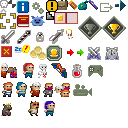
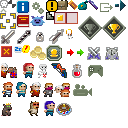
Added potion belt, should be really working now

Changed region(s): [[0.4375, 0.7812, 0.5625, 0.9062]]

diff --git a/app/src/main/java/com/demasu/testpixeldungeon/windows/WndBag.java b/app/src/main/java/com/demasu/testpixeldungeon/windows/WndBag.java
@@ -75,7 +75,8 @@ public class WndBag extends WndTabbed {
     protected static final int COLS_P = 4;
     protected static final int COLS_L = 6;
 
-    protected static final int SLOT_SIZE = 28;
+    protected static final int SLOT_WIDTH  = 28;
+    protected static final int SLOT_HEIGHT = 28;
     protected static final int SLOT_MARGIN = 1;
 
     protected static final int TAB_WIDTH = 25;
@@ -112,8 +113,8 @@ public class WndBag extends WndTabbed {
         nCols = PixelDungeon.landscape() ? COLS_L : COLS_P;
         nRows = ( Belongings.BACKPACK_SIZE + 4 + 1 ) / nCols + ( ( Belongings.BACKPACK_SIZE + 4 + 1 ) % nCols > 0 ? 1 : 0 );
 
-        int slotsWidth = SLOT_SIZE * nCols + SLOT_MARGIN * ( nCols - 1 );
-        int slotsHeight = SLOT_SIZE * nRows + SLOT_MARGIN * ( nRows - 1 );
+        int slotsWidth = SLOT_WIDTH * nCols + SLOT_MARGIN * ( nCols - 1 );
+        int slotsHeight = SLOT_HEIGHT * nRows + SLOT_MARGIN * ( nRows - 1 );
 
         BitmapText txtTitle = PixelScene.createText( title != null ? title : Utils.capitalize( bag.name() ), 9 );
         txtTitle.hardlight( TITLE_COLOR );
@@ -132,13 +133,15 @@ public class WndBag extends WndTabbed {
                 stuff.getItem( SeedPouch.class ),
                 stuff.getItem( ScrollHolder.class ),
                 stuff.getItem( WandHolster.class ),
-                stuff.getItem( Keyring.class ),
-                stuff.getItem( PotionBelt.class ) };
+                stuff.getItem( PotionBelt.class ),
+                stuff.getItem( Keyring.class ) };
 
+        int totalTabSpace = 125;
+        int tabWidth = totalTabSpace / bags.length + ((totalTabSpace % bags.length == 0) ? 0 : 1);
         for ( Bag b : bags ) {
             if ( b != null ) {
                 BagTab tab = new BagTab( b );
-                tab.setSize( TAB_WIDTH, tabHeight() );
+                tab.setSize( tabWidth, tabHeight() );
                 add( tab );
 
                 tab.select( b == bag );
@@ -204,8 +207,8 @@ public class WndBag extends WndTabbed {
 
     protected void placeItem ( final Item item ) {
 
-        int x = col * ( SLOT_SIZE + SLOT_MARGIN );
-        int y = TITLE_HEIGHT + row * ( SLOT_SIZE + SLOT_MARGIN );
+        int x = col * ( SLOT_WIDTH + SLOT_MARGIN );
+        int y = TITLE_HEIGHT + row * ( SLOT_HEIGHT + SLOT_MARGIN );
 
         add( new ItemButton( item ).setPos( x, y ) );
 
@@ -286,6 +289,8 @@ public class WndBag extends WndTabbed {
                 return Icons.get( Icons.SCROLL_HOLDER );
             } else if ( bag instanceof WandHolster ) {
                 return Icons.get( Icons.WAND_HOLSTER );
+            } else if ( bag instanceof PotionBelt ) {
+                return Icons.get( Icons.POTION_BELT );
             } else if ( bag instanceof Keyring ) {
                 return Icons.get( Icons.KEYRING );
             } else {
@@ -335,12 +340,13 @@ public class WndBag extends WndTabbed {
                 bg.visible = false;
             }
 
-            width = height = SLOT_SIZE;
+            width = SLOT_WIDTH;
+            height = SLOT_HEIGHT;
         }
 
         @Override
         protected void createChildren () {
-            bg = new ColorBlock( SLOT_SIZE, SLOT_SIZE, NORMAL );
+            bg = new ColorBlock( SLOT_WIDTH, SLOT_HEIGHT, NORMAL );
             add( bg );
 
             super.createChildren();

diff --git a/app/src/main/java/com/demasu/testpixeldungeon/windows/WndStorage.java b/app/src/main/java/com/demasu/testpixeldungeon/windows/WndStorage.java
@@ -19,6 +19,7 @@ package com.demasu.testpixeldungeon.windows;
 
 import android.graphics.RectF;
 
+import com.demasu.testpixeldungeon.items.bags.PotionBelt;
 import com.watabou.gltextures.TextureCache;
 import com.watabou.noosa.BitmapText;
 import com.watabou.noosa.ColorBlock;
@@ -70,22 +71,17 @@ public class WndStorage extends WndTabbed {
     protected static final int TAB_WIDTH = 25;
 
     protected static final int TITLE_HEIGHT = 12;
-
-    private Listener listener;
-    private WndStorage.Mode mode;
-    private String title;
-
-    private int nCols;
-    private int nRows;
-
+    private static Mode lastMode;
+    private static Storage lastBag;
+    public boolean noDegrade = !PixelDungeon.itemDeg();
     protected int count;
     protected int col;
     protected int row;
-
-    private static Mode lastMode;
-    private static Storage lastBag;
-
-    public boolean noDegrade = !PixelDungeon.itemDeg();
+    private Listener listener;
+    private WndStorage.Mode mode;
+    private String title;
+    private int nCols;
+    private int nRows;
 
     public WndStorage ( Storage bag, Listener listener, Mode mode, String title ) {
 
@@ -181,6 +177,30 @@ public class WndStorage extends WndTabbed {
         return 20;
     }
 
+    public interface Listener {
+        void onSelect ( Item item );
+    }
+
+    private static class Placeholder extends Item {
+        {
+            name = null;
+        }
+
+        public Placeholder ( int image ) {
+            this.image = image;
+        }
+
+        @Override
+        public boolean isIdentified () {
+            return true;
+        }
+
+        @Override
+        public boolean isEquipped ( Hero hero ) {
+            return true;
+        }
+    }
+
     private class BagTab extends Tab {
 
         private Image icon;
@@ -224,31 +244,13 @@ public class WndStorage extends WndTabbed {
                 return Icons.get( Icons.SCROLL_HOLDER );
             } else if ( bag instanceof WandHolster ) {
                 return Icons.get( Icons.WAND_HOLSTER );
+            } else if ( bag  instanceof PotionBelt ) {
+                return Icons.get( Icons.POTION_BELT );
             } else if ( bag instanceof Keyring ) {
                 return Icons.get( Icons.KEYRING );
             } else {
                 return Icons.get( Icons.BACKPACK );
             }
-        }
-    }
-
-    private static class Placeholder extends Item {
-        {
-            name = null;
-        }
-
-        public Placeholder ( int image ) {
-            this.image = image;
-        }
-
-        @Override
-        public boolean isIdentified () {
-            return true;
-        }
-
-        @Override
-        public boolean isEquipped ( Hero hero ) {
-            return true;
         }
     }
 
@@ -370,9 +372,5 @@ public class WndStorage extends WndTabbed {
             return false;
 
         }
-    }
-
-    public interface Listener {
-        void onSelect ( Item item );
     }
 }

diff --git a/app/src/main/java/com/demasu/testpixeldungeon/ui/Icons.java b/app/src/main/java/com/demasu/testpixeldungeon/ui/Icons.java
@@ -17,62 +17,59 @@
  */
 package com.demasu.testpixeldungeon.ui;
 
-import com.watabou.noosa.Image;
 import com.demasu.testpixeldungeon.Assets;
 import com.demasu.testpixeldungeon.actors.hero.HeroClass;
+import com.watabou.noosa.Image;
 
 public enum Icons {
 
-    SKULL,
-    BUSY,
-    COMPASS,
-    PREFS,
-    WARNING,
-    TARGET,
-    WATA,
-    WARRIOR,
-    MAGE,
-    ROGUE,
-    HUNTRESS,
-    CLOSE,
-    DEPTH,
-    SLEEP,
     ALERT,
-    SUPPORT,
-    SUPPORTED,
-    BACKPACK,
-    SEED_POUCH,
-    SCROLL_HOLDER,
-    WAND_HOLSTER,
-    KEYRING,
-    CHECKED,
-    UNCHECKED,
-    EXIT,
-    CHALLENGE_OFF,
-    CHALLENGE_ON,
-    RESUME,
-    SKILL_NOT_AVAILABLE,
-    SKILL_AVAILABLE,
-    SKILLS,
-    ARCHER_MAIDEN,
-    BRUTE,
-    THIEF,
-    WIZARD,
+    ALL_MERCS,
     ARCHER,
-    ARCHER_MAIDEN_SKILL,
-    ARCHER_MAIDEN_SKILL_B,
+    ARCHER_MAIDEN,
     ARCHER_MAIDEN_BOW,
     ARCHER_MAIDEN_POTION,
-    ALL_MERCS,
-    RAT_KING,
-    MOB,
+    ARCHER_MAIDEN_SKILL,
+    ARCHER_MAIDEN_SKILL_B,
+    BACKPACK,
+    BRUTE,
+    BUSY,
+    CHALLENGE_OFF,
+    CHALLENGE_ON,
     CHAMP_HALO,
+    CHECKED,
+    CLOSE,
+    COMPASS,
+    DEPTH,
+    EXIT,
     GAME,
-    VIDEO;
-
-    public Image get () {
-        return get( this );
-    }
+    HUNTRESS,
+    KEYRING,
+    MAGE,
+    MOB,
+    POTION_BELT,
+    PREFS,
+    RAT_KING,
+    RESUME,
+    ROGUE,
+    SCROLL_HOLDER,
+    SEED_POUCH,
+    SKILL_AVAILABLE,
+    SKILL_NOT_AVAILABLE,
+    SKILLS,
+    SKULL,
+    SLEEP,
+    SUPPORT,
+    SUPPORTED,
+    TARGET,
+    THIEF,
+    UNCHECKED,
+    VIDEO,
+    WAND_HOLSTER,
+    WARNING,
+    WARRIOR,
+    WATA,
+    WIZARD;
 
     public static Image get ( Icons type ) {
         Image icon = new Image( Assets.ICONS );
@@ -215,6 +212,9 @@ public enum Icons {
             case VIDEO:
                 icon.frame( icon.texture.uvRect( 73, 83, 93, 96 ) );
                 break;
+            case POTION_BELT:
+                icon.frame( icon.texture.uvRect( 55, 101, 72, 116 ) );
+                break;
 
         }
         return icon;
@@ -233,5 +233,9 @@ public enum Icons {
             default:
                 return null;
         }
+    }
+
+    public Image get () {
+        return get( this );
     }
 }

diff --git a/app/src/main/java/com/demasu/testpixeldungeon/windows/WndMerc.java b/app/src/main/java/com/demasu/testpixeldungeon/windows/WndMerc.java
@@ -37,6 +37,7 @@ import com.demasu.testpixeldungeon.items.Item;
 import com.demasu.testpixeldungeon.items.armor.Armor;
 import com.demasu.testpixeldungeon.items.bags.Bag;
 import com.demasu.testpixeldungeon.items.bags.Keyring;
+import com.demasu.testpixeldungeon.items.bags.PotionBelt;
 import com.demasu.testpixeldungeon.items.bags.ScrollHolder;
 import com.demasu.testpixeldungeon.items.bags.SeedPouch;
 import com.demasu.testpixeldungeon.items.bags.WandHolster;
@@ -227,6 +228,8 @@ public class WndMerc extends WndTabbed {
                 return Icons.get( Icons.SCROLL_HOLDER );
             } else if ( bag instanceof WandHolster ) {
                 return Icons.get( Icons.WAND_HOLSTER );
+            } else if ( bag instanceof PotionBelt ) {
+                return Icons.get( Icons.POTION_BELT );
             } else if ( bag instanceof Keyring ) {
                 return Icons.get( Icons.KEYRING );
             } else {

diff --git a/app/src/main/java/com/demasu/testpixeldungeon/actors/hero/HeroClass.java b/app/src/main/java/com/demasu/testpixeldungeon/actors/hero/HeroClass.java
@@ -29,6 +29,7 @@ import com.demasu.testpixeldungeon.items.TomeOfMastery;
 import com.demasu.testpixeldungeon.items.armor.Armor;
 import com.demasu.testpixeldungeon.items.armor.DebugArmor;
 import com.demasu.testpixeldungeon.items.bags.Keyring;
+import com.demasu.testpixeldungeon.items.bags.PotionBelt;
 import com.demasu.testpixeldungeon.items.bags.ScrollHolder;
 import com.demasu.testpixeldungeon.items.bags.SeedPouch;
 import com.demasu.testpixeldungeon.items.bags.WandHolster;
@@ -243,6 +244,7 @@ public enum HeroClass {
         new SeedPouch().collect();
         new WandHolster().collect();
         new MerchantsBeacon().collect();
+        new PotionBelt().collect();
         // new PotionOfMindVision().collect();
         // new ArmorKit().collect();
         // new ScrollOfMagicMapping().identify().collect();

diff --git a/app/src/main/java/com/demasu/testpixeldungeon/windows/WndSkills.java b/app/src/main/java/com/demasu/testpixeldungeon/windows/WndSkills.java
@@ -19,6 +19,7 @@ package com.demasu.testpixeldungeon.windows;
 
 import android.graphics.RectF;
 
+import com.demasu.testpixeldungeon.items.bags.PotionBelt;
 import com.watabou.noosa.BitmapText;
 import com.watabou.noosa.ColorBlock;
 import com.watabou.noosa.Image;
@@ -197,6 +198,8 @@ public class WndSkills extends WndTabbed {
                 return Icons.get( Icons.SCROLL_HOLDER );
             } else if ( bag instanceof WandHolster ) {
                 return Icons.get( Icons.WAND_HOLSTER );
+            } else if ( bag  instanceof PotionBelt ) {
+                return Icons.get( Icons.POTION_BELT );
             } else if ( bag instanceof Keyring ) {
                 return Icons.get( Icons.KEYRING );
             } else {

diff --git a/app/src/main/java/com/demasu/testpixeldungeon/items/bags/PotionBelt.java b/app/src/main/java/com/demasu/testpixeldungeon/items/bags/PotionBelt.java
@@ -34,6 +34,8 @@ public class PotionBelt extends Bag{
         image = ItemSpriteSheet.BELT;
         //noinspection MagicNumber
         setSellPrice( 50 );
+        //noinspection MagicNumber
+        size = 14;
     }
 
     private int sellPrice;
@@ -52,7 +54,7 @@ public class PotionBelt extends Bag{
     public String info() {
         return
             "You can store a significant number of potions in the curiously made containers " +
-            "which go around this wondrous sash. It would not only save room in your backpack, " +
+            "which go around this wondrous belt. It would not only save room in your backpack, " +
             "but also protect these potions from breaking.";
     }
 
